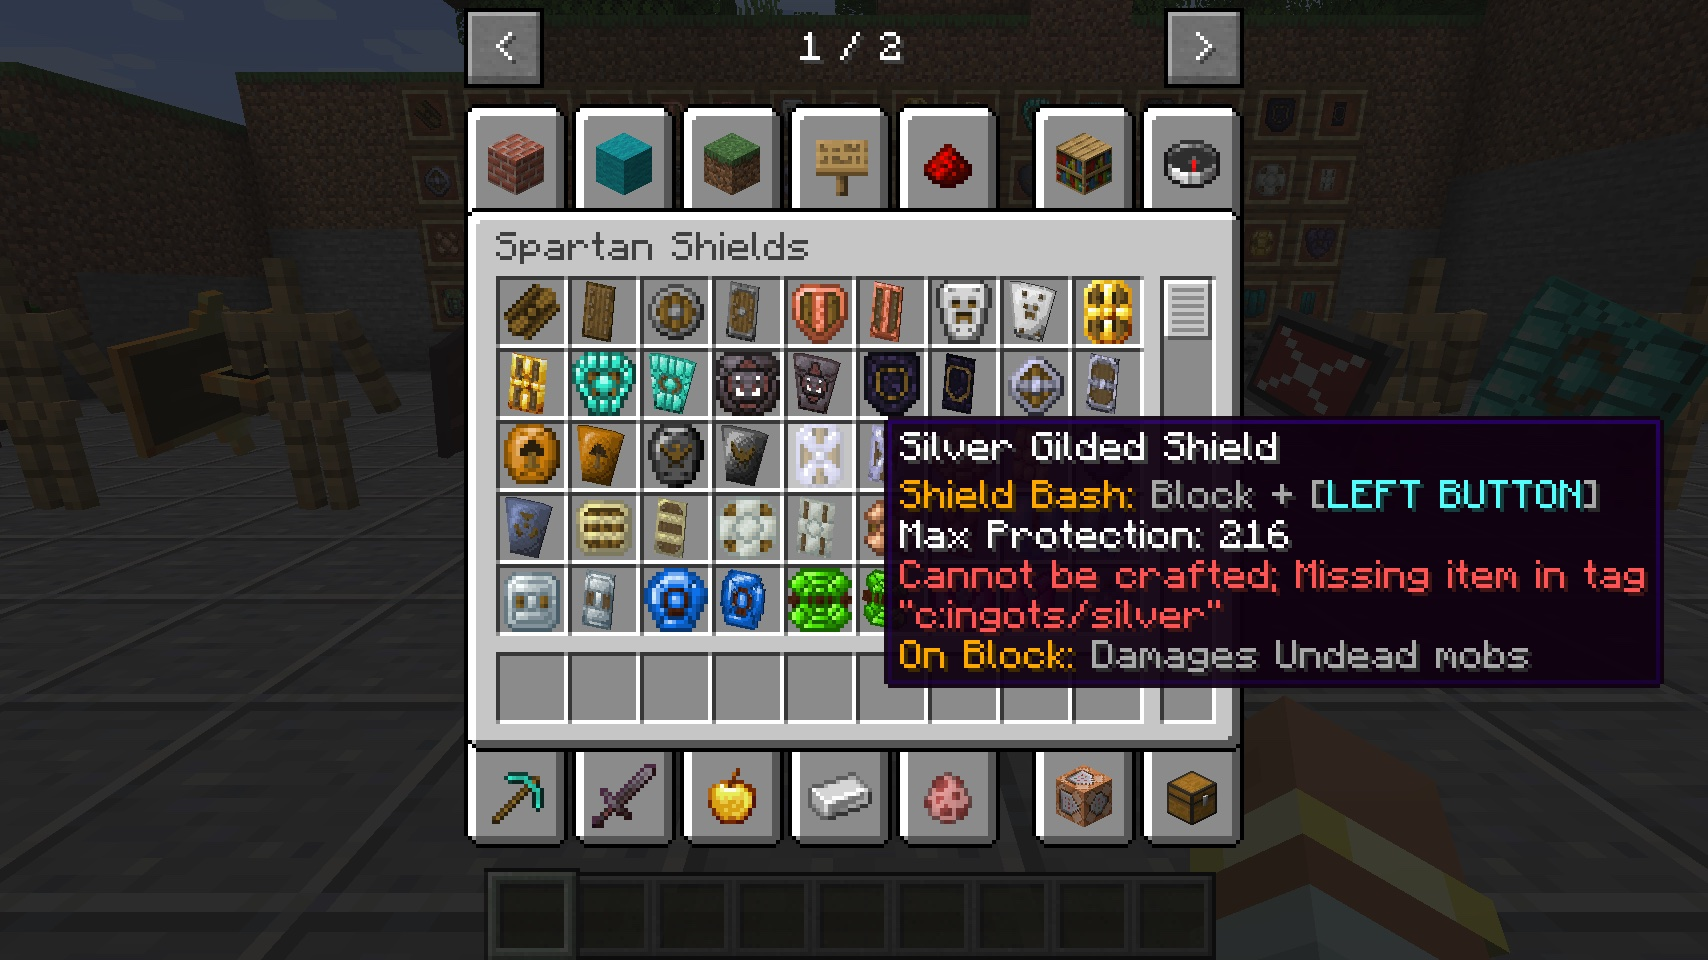
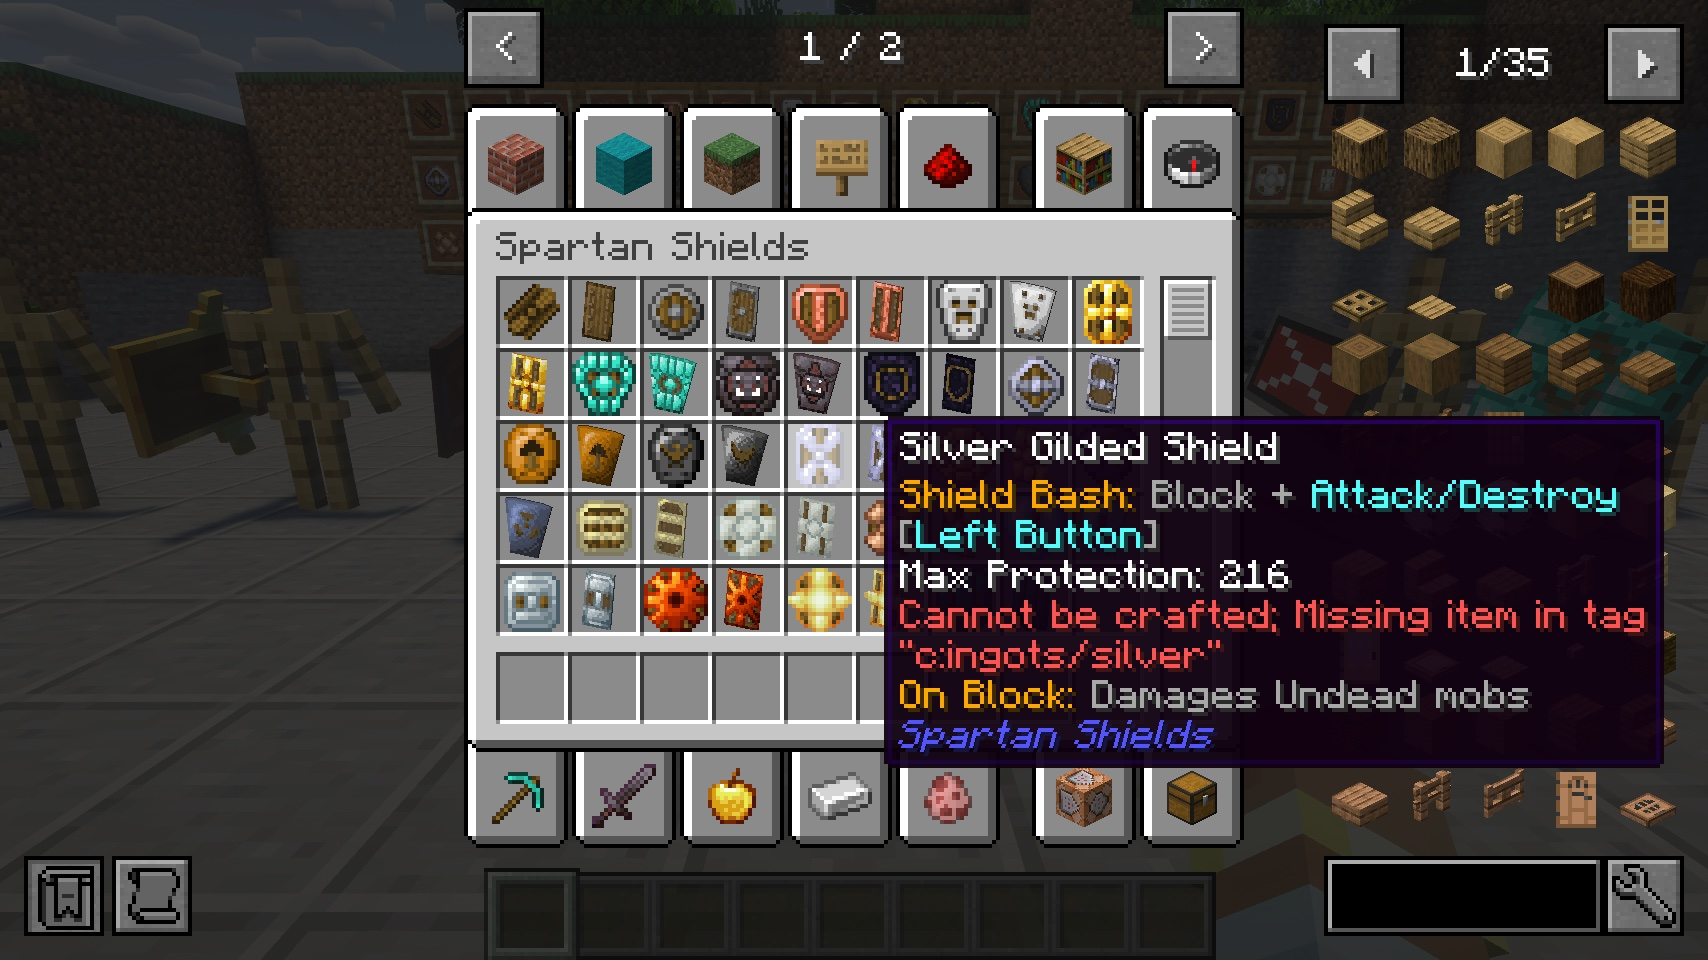
3.1.1.1: original issues #1 #4 #6 #10 fixed, #7 checked; compatibility runs (-Pwith_compat); README, PORTLOG, release notes

Changed region(s): [[0.3724, 0.5, 0.993, 1.0], [0.7758, 0.0, 0.993, 0.4375], [0.0, 0.875, 0.1241, 1.0]]

diff --git a/README.md b/README.md
@@ -43,6 +43,8 @@ energy-powered riot shields — and turns blocking into an attack.
   <img src="docs/images/stands.jpg" width="49%" alt="Tower shields, some with banners">
   <img src="docs/images/creative_tab.jpg" width="49%" alt="The Spartan Shields creative tab">
   <img src="docs/images/bash.jpg" width="49%" alt="A Shield Bash knocking a husk back">
+  <img src="docs/images/shaders.jpg" width="49%" alt="Tower shields under Iris shaders">
+  <img src="docs/images/stress_render.jpg" width="49%" alt="800 tower shields on armor stands">
 </p>
 
 ## ⚔ Shield Bash
@@ -61,13 +63,14 @@ Works with the vanilla shield too (`#spartanshields:shields_with_bash`).
 The modded shields appear only when their material exists: a shield made of tin needs a mod that adds tin ingots
 (`c:ingots/tin`), the Mekanist's shields need **Mekanism**, the Dark Steel Riot Shields need **Ender IO**, the
 Manasteel, Terrasteel and Elementium shields need **Botania**. Until then their recipe is off and the tooltip says what is
-missing. Powered shields are charged like any other energy item (Mekanism, Ender IO, …) and keep their charge when
+missing. Shields of a mod that is not installed, and shields you disable in the config, are left out of the creative tab
+and JEI. Powered shields are charged like any other energy item (Mekanism, Ender IO, …) and keep their charge when
 upgraded.
 
 ## 📦 Installation
 
 1. Install **NeoForge 21.1.197** or newer for Minecraft **1.21.1**.
-2. Put `SpartanShields-neoforge-3.1.1+1.21.1.jar` from the [releases](../../releases) into `mods`.
+2. Put `SpartanShields-neoforge-3.1.1.1+1.21.1.jar` from the [releases](../../releases) into `mods`.
 
 No other mods needed. Required on both the client and the server.
 Settings: `config/spartanshields-common.toml`.
@@ -76,14 +79,33 @@ Settings: `config/spartanshields-common.toml`.
 
 Content, recipes and numbers are those of 3.1.1. Bugs of the original that the port fixes:
 
+| Original issue | Fix |
+| --- | --- |
+| [#10](https://github.com/ObliviousSpartan/SpartanShields/issues/10) Out-of-memory crash on launch in big packs, "absurd sized texture for banner patterns" | The shield texture atlas took every entity texture of every mod; it now only holds the 58 shield textures |
+| [#1](https://github.com/ObliviousSpartan/SpartanShields/issues/1) `vanilla_only` has no effect | It now also turns off the Botania and Ender IO shields, and the disabled shields leave the creative tab |
+| [#6](https://github.com/ObliviousSpartan/SpartanShields/issues/6) Uncraftable shields keep recipes and clutter JEI | Banner recipes follow the shield's own recipe; shields of missing mods and disabled shields are hidden from the creative tab and JEI |
+| [#4](https://github.com/ObliviousSpartan/SpartanShields/issues/4) "Block + [LEFT BUTTON]" — which button? | The tooltip names the action and its key: "Block + Attack/Destroy [Left Button]" |
+| [#7](https://github.com/ObliviousSpartan/SpartanShields/issues/7) Shields only block once | Not reproducible in the port: a real attacker for 30 s, every hit from the front blocked |
+
+Found while porting:
+
 - Powered shields now use the configured energy per point of blocked damage (50 FE), as their tooltip always said —
-  since 1.16 they only used 1 FE.
-- The server checks the reach of a Shield Bash (before, a modified client could bash any entity anywhere).
-- The shield texture atlas only holds the shield textures (before, every entity texture of every mod was copied into it).
-- Spikes always works with two Spikes shields; the "uncraftable" tooltip is no longer stuck after a data pack reload;
-  the alternate bash key has a name.
+  since 1.16 they only used 1 FE. They no longer accept negative energy (which drained them).
+- The server checks the reach of a Shield Bash (a modified client could bash any entity anywhere).
+- Spikes always works with two Spikes shields; the "uncraftable" tooltip follows data pack reloads; the alternate bash key
+  has a name; the Dark Steel Riot Tower Shield takes banners like the other tower shields.
 
 The full list, with the reasons and what 1.21 changed, is in **[PORTLOG.md](PORTLOG.md)**.
+
+## ✅ Tested
+
+- **Functional**: all recipes, Shield Bash, the three enchantments, banners, energy, config; saving and rejoining keeps
+  every shield's data; dedicated servers NeoForge 21.1.197 and 21.1.259.
+- **Stress**: 100 bash packets in one tick and bad entity ids, extreme config values, 800 tower shields on screen
+  (60 FPS), 60 mobs against a Spikes shield (server tick 2 ms), 30 teleports up to 60 000 blocks.
+- **Compatibility**: Mekanism 10.7, Ender IO 8, Sodium 0.6 + Iris 1.8 with Complementary shaders, Lithium, FerriteCore,
+  ModernFix, JEI, Jade.
+- Not tested: Botania (no 1.21.1 release yet; its shields use the mana API when it is installed).
 
 ## ❤ Credits
 
@@ -149,7 +171,8 @@ Spartan Shields добавляет в Minecraft целый арсенал щит
 Модовые щиты доступны, только когда есть их материал: оловянному щиту нужен мод с оловянными слитками (`c:ingots/tin`),
 щитам механика — **Mekanism**, щитам спецназа из тёмной стали — **Ender IO**, щитам из манастали, террастали и
 элементиума — **Botania**. До этого их рецепт выключен, а в подсказке написано, чего не хватает. Энергетические щиты
-заряжаются как любой энергетический предмет (Mekanism, Ender IO, …) и сохраняют заряд при улучшении.
+заряжаются как любой энергетический предмет (Mekanism, Ender IO, …) и сохраняют заряд при улучшении. Щиты
+неустановленных модов и щиты, отключённые в конфиге, не показываются в творческой вкладке и в JEI.
 
 </details>
 
@@ -157,7 +180,7 @@ Spartan Shields добавляет в Minecraft целый арсенал щит
 <summary><b>📦 Установка</b></summary>
 
 1. Установите **NeoForge 21.1.197** или новее для Minecraft **1.21.1**.
-2. Положите `SpartanShields-neoforge-3.1.1+1.21.1.jar` из [релизов](../../releases) в папку `mods`.
+2. Положите `SpartanShields-neoforge-3.1.1.1+1.21.1.jar` из [релизов](../../releases) в папку `mods`.
 
 Других модов не нужно. Нужен и на клиенте, и на сервере.
 Настройки: `config/spartanshields-common.toml`.
@@ -167,16 +190,38 @@ Spartan Shields добавляет в Minecraft целый арсенал щит
 <details>
 <summary><b>🔧 Что изменилось в порте</b></summary>
 
-Содержимое, рецепты и числа — как в 3.1.1. Ошибки оригинала, которые исправлены в порте:
+Содержимое, рецепты и числа — как в 3.1.1. Ошибки оригинала, исправленные в порте:
 
-- Энергетические щиты теперь тратят настроенное количество энергии на единицу заблокированного урона (50 FE), как и
-  писала их подсказка, — с версии 1.16 они тратили всего 1 FE.
-- Сервер проверяет дальность удара щитом (раньше изменённый клиент мог ударить любую сущность где угодно).
-- В атлас текстур щитов попадают только текстуры щитов (раньше туда копировались все текстуры сущностей всех модов).
-- Spikes всегда работает с двумя щитами со Spikes; подсказка «нельзя скрафтить» не залипает после перезагрузки датапаков;
-  у дополнительной клавиши удара есть название.
+| Issue оригинала | Исправление |
+| --- | --- |
+| [#10](https://github.com/ObliviousSpartan/SpartanShields/issues/10) Вылет из-за нехватки памяти при запуске больших сборок, «огромная текстура баннеров» | В атлас текстур щитов попадали все текстуры сущностей всех модов; теперь там только 58 текстур щитов |
+| [#1](https://github.com/ObliviousSpartan/SpartanShields/issues/1) `vanilla_only` не действует | Теперь отключает и щиты Botania и Ender IO, а отключённые щиты пропадают из творческой вкладки |
+| [#6](https://github.com/ObliviousSpartan/SpartanShields/issues/6) У некрафтабельных щитов остаются рецепты, они засоряют JEI | Рецепты баннера следуют за рецептом самого щита; щиты отсутствующих модов и отключённые щиты скрыты из творческой вкладки и JEI |
+| [#4](https://github.com/ObliviousSpartan/SpartanShields/issues/4) «Block + [LEFT BUTTON]» — какая кнопка? | Подсказка называет действие и клавишу: «Block + Attack/Destroy [Left Button]» |
+| [#7](https://github.com/ObliviousSpartan/SpartanShields/issues/7) Щит блокирует только один раз | В порте не воспроизводится: настоящий противник 30 секунд, все удары спереди заблокированы |
+
+Найдено при портировании:
+
+- Энергетические щиты тратят настроенное количество энергии на единицу заблокированного урона (50 FE), как и писала их
+  подсказка, — с версии 1.16 они тратили всего 1 FE. Отрицательную энергию (которая их разряжала) больше не принимают.
+- Сервер проверяет дальность удара щитом (изменённый клиент мог ударить любую сущность где угодно).
+- Spikes всегда работает с двумя щитами со Spikes; подсказка «нельзя скрафтить» обновляется после перезагрузки датапаков;
+  у дополнительной клавиши удара есть название; башенный щит спецназа из тёмной стали принимает баннеры, как остальные.
 
 Полный список, с причинами и изменениями 1.21, — в **[PORTLOG.md](PORTLOG.md)** (на английском).
+
+</details>
+
+<details>
+<summary><b>✅ Проверено</b></summary>
+
+- **Функционально**: все рецепты, удар щитом, три зачарования, баннеры, энергия, конфиг; сохранение и перезаход
+  сохраняют данные всех щитов; выделенные серверы NeoForge 21.1.197 и 21.1.259.
+- **Нагрузка**: 100 пакетов удара за тик и неверные id сущностей, крайние значения конфига, 800 башенных щитов на экране
+  (60 FPS), 60 мобов против щита со Spikes (тик сервера 2 мс), 30 телепортов на расстояние до 60 000 блоков.
+- **Совместимость**: Mekanism 10.7, Ender IO 8, Sodium 0.6 + Iris 1.8 с шейдерами Complementary, Lithium, FerriteCore,
+  ModernFix, JEI, Jade.
+- Не проверено: Botania (под 1.21.1 ещё не вышла; когда она установлена, её щиты используют API маны).
 
 </details>
 

diff --git a/PORTLOG.md b/PORTLOG.md
@@ -89,6 +89,30 @@ config file and textures are unchanged.
 - **Advancements for mod recipes** referenced items of Mekanism / Ender IO / Botania without a condition and failed to
   load when the mod was missing. They now carry the conditions of their recipe.
 
+## Issues of the original (port 3.1.1.1)
+
+All open issues of github.com/ObliviousSpartan/SpartanShields (2026-10-15; CurseForge comments could not be read, Modrinth
+has none):
+
+- [#10](https://github.com/ObliviousSpartan/SpartanShields/issues/10) out-of-memory on launch in big packs, "absurd sized texture for banner patterns": the shield atlas bug
+  above (every entity texture of every namespace in the shield atlas). Fixed.
+- [#1](https://github.com/ObliviousSpartan/SpartanShields/issues/1) `vanilla_only` has no effect: the Botania and Ender IO recipes had no `modded` type, so they stayed on.
+  The converter adds it to every recipe with a mod condition. Shields disabled in the config (vanilla_only or a
+  per-material switch) are also left out of the creative tab (`util/ShieldAvailability`).
+- [#6](https://github.com/ObliviousSpartan/SpartanShields/issues/6) uncraftable shields should have all their recipes disabled (JEI clutter): the 29 banner recipes had no
+  conditions; they now carry the conditions of the shield's own recipe (mod, material tag, type). Shields of a mod that
+  is not loaded and disabled shields are left out of the creative tab, which is where JEI takes its item list from
+  (JEI 19 only reads the registry with `ShowHiddenItems`). Shields that only lack their material (tin without a tin mod)
+  stay visible with the red tooltip, as in 1.20.1: a pack can add a recipe for them.
+- [#4](https://github.com/ObliviousSpartan/SpartanShields/issues/4) "Block + [LEFT BUTTON]" was unclear: the tooltip now names the key binding and its key
+  ("Block + Attack/Destroy [Left Button]", or the alternate bash key when it is bound).
+- [#7](https://github.com/ObliviousSpartan/SpartanShields/issues/7) "shields only block one time" (closed upstream without an answer): not reproducible. The stress scene
+  lets a husk with its AI attack a blocking survival player for 30 s: every hit from the front is blocked (28-30 per run);
+  the only unblocked hits came from the side or behind (more than 90° from the view, the vanilla shield rule).
+- [#9](https://github.com/ObliviousSpartan/SpartanShields/issues/9) 1.21.1: this port. [#5](https://github.com/ObliviousSpartan/SpartanShields/issues/5), [#8](https://github.com/ObliviousSpartan/SpartanShields/issues/8) (French and Chinese translations) are requests, not bugs.
+- Also new in 3.1.1.1: powered shields no longer accept a negative energy amount (1.20.1 drained them), and the Dark
+  Steel Riot Tower Shield got the banner recipe the other tower shields have (its renderer has the pattern texture).
+
 ## Not changed on purpose
 
 - Shield bash: damage 1 (+ Payback), knockback 1 + Knockback level, 5 durability, tower shields hit the foes around
@@ -97,9 +121,9 @@ config file and textures are unchanged.
   raised); Payback stores 50 % of the damage, at most 2 per level.
 - Item models keep the `minecraft:blocking` / `minecraft:disabled` property names.
 
-## Verified (2026-10-15)
+## Verified (2026-10-15, 3.1.1.1)
 
-- `./gradlew build`: compiles without errors; jar `SpartanShields-neoforge-3.1.1+1.21.1.jar` (with the Apache license).
+- `./gradlew build`: compiles without errors; jar `SpartanShields-neoforge-3.1.1.1+1.21.1.jar` (with the Apache license).
 - Dev server, fresh world: starts clean, no recipe / advancement / tag / enchantment errors; same with `-Pwith_mods`
   (Mekanism 10.7.19, Ender IO 8.2.12: every item of their shield recipes exists).
 - Client scene (`tools/scenetest.sh`, 21 checks, 22 with Mekanism, all pass): shield bash through the real packet
@@ -107,7 +131,16 @@ config file and textures are unchanged.
   and no second banner, shaped recipes, tin / Mekanism recipes only with their material / mod, enchanting table offers
   Spikes / Firebrand / Payback / Unbreaking (not on the vanilla shield), powered shield charge rate and energy per damage,
   durability from the config, Mekanism upgrade recipe carrying the energy over (1 600 000 / 1 600 000 FE).
-  Screenshots: all 64 shields in item frames, tower shields with banners on armor stands, creative tab and tooltip,
-  first-person blocking and a bash.
+- Functional / stress scene (`tools/stresstest.sh`, 22 checks, all pass): leave and rejoin the world keeps energy,
+  banners, enchantments, Payback charge and damage in the inventory and in a chest; a real husk for 30 s (issue #7);
+  100 bash packets in one tick land once, bad entity ids (-1, MAX, MIN, the player) do nothing; config extremes
+  (durability 0 breaks on the first hit, 100000 x tower multiplier 10 = 1000000, FE multiplier 1000000 with huge damage,
+  negative energy); 800 tower shields on 400 armor stands, half with banners: 60-69 FPS, server tick 3-4 ms; 60 husks
+  against a blocking player with Spikes III for 40 s: 111-128 hits blocked, 12-23 husks killed by Spikes, server tick
+  2-3 ms; 30 teleports of 2000 to 60000 blocks while blocking: fine, server tick 15 ms while generating 7000 chunks.
+- Compatibility (`-Pwith_compat`: Sodium 0.6.13, Iris 1.8.12 with Complementary Reimagined r5.9.3, Lithium 0.15.4,
+  FerriteCore 7.0.3, ModernFix 5.27.26, JEI 19.64, Jade 15.10.6): client scene 21/21, tower shields, banners and the
+  glowing layers render under shaders, JEI shows the recipes. The only errors in that log are the shader pack's own
+  (1.21.4 biome variables) and Iris' optional mixins for other mods.
 - Release jar on real NeoForge servers 21.1.259 and 21.1.197 (`prodtest/serve.sh`): starts clean.
 - Not run: Botania (no 1.21.1 build), the alternate bash key, a dedicated client joining the server.

diff --git a/docs/release-notes-3.1.1.1+1.21.1.md b/docs/release-notes-3.1.1.1+1.21.1.md
@@ -1,0 +1,31 @@
+## Spartan Shields 3.1.1.1 for NeoForge 1.21.1
+
+Second build of the unofficial NeoForge 1.21.1 port of [Spartan Shields](https://www.curseforge.com/minecraft/mc-mods/spartan-shields)
+3.1.1 by **ObliviousSpartan**: fixes for the open issues of the original, and a full round of functional, stress and
+compatibility tests.
+
+### Requirements
+- Minecraft **1.21.1**, NeoForge **21.1.197** or newer
+- No other mods; install on both the client and the server
+
+### Fixed issues of the original
+- [#10](https://github.com/ObliviousSpartan/SpartanShields/issues/10) Out-of-memory crash on launch in big packs (huge banner pattern texture): the shield atlas only holds the shield textures.
+- [#1](https://github.com/ObliviousSpartan/SpartanShields/issues/1) `vanilla_only` had no effect on the Botania and Ender IO shields.
+- [#6](https://github.com/ObliviousSpartan/SpartanShields/issues/6) Uncraftable shields cluttered JEI: their banner recipes are off, and shields of missing mods or disabled in the config are hidden from the creative tab and JEI.
+- [#4](https://github.com/ObliviousSpartan/SpartanShields/issues/4) The Shield Bash tooltip names the action and the key ("Block + Attack/Destroy [Left Button]").
+- [#7](https://github.com/ObliviousSpartan/SpartanShields/issues/7) "Shields only block once": not reproducible; tested with a real attacker for 30 seconds.
+
+### Other changes since 3.1.1+1.21.1
+- Powered shields no longer accept a negative energy amount (which drained them).
+- The Dark Steel Riot Tower Shield takes banners like the other tower shields.
+
+### Tested with
+Mekanism 10.7, Ender IO 8, Sodium 0.6 + Iris 1.8 (Complementary shaders), Lithium, FerriteCore, ModernFix, JEI, Jade;
+dedicated servers NeoForge 21.1.197 and 21.1.259. Stress: 800 tower shields on screen, 60 mobs against a Spikes shield,
+bash packet spam, extreme config values.
+
+### Known issues
+- Botania has no 1.21.1 release yet, so the Botania shields are untested in game.
+
+Full list of changes: [PORTLOG.md](https://github.com/Vladeezyy/spartan-shields-1.21/blob/main/PORTLOG.md).
+All content and art by ObliviousSpartan. Apache License 2.0.
